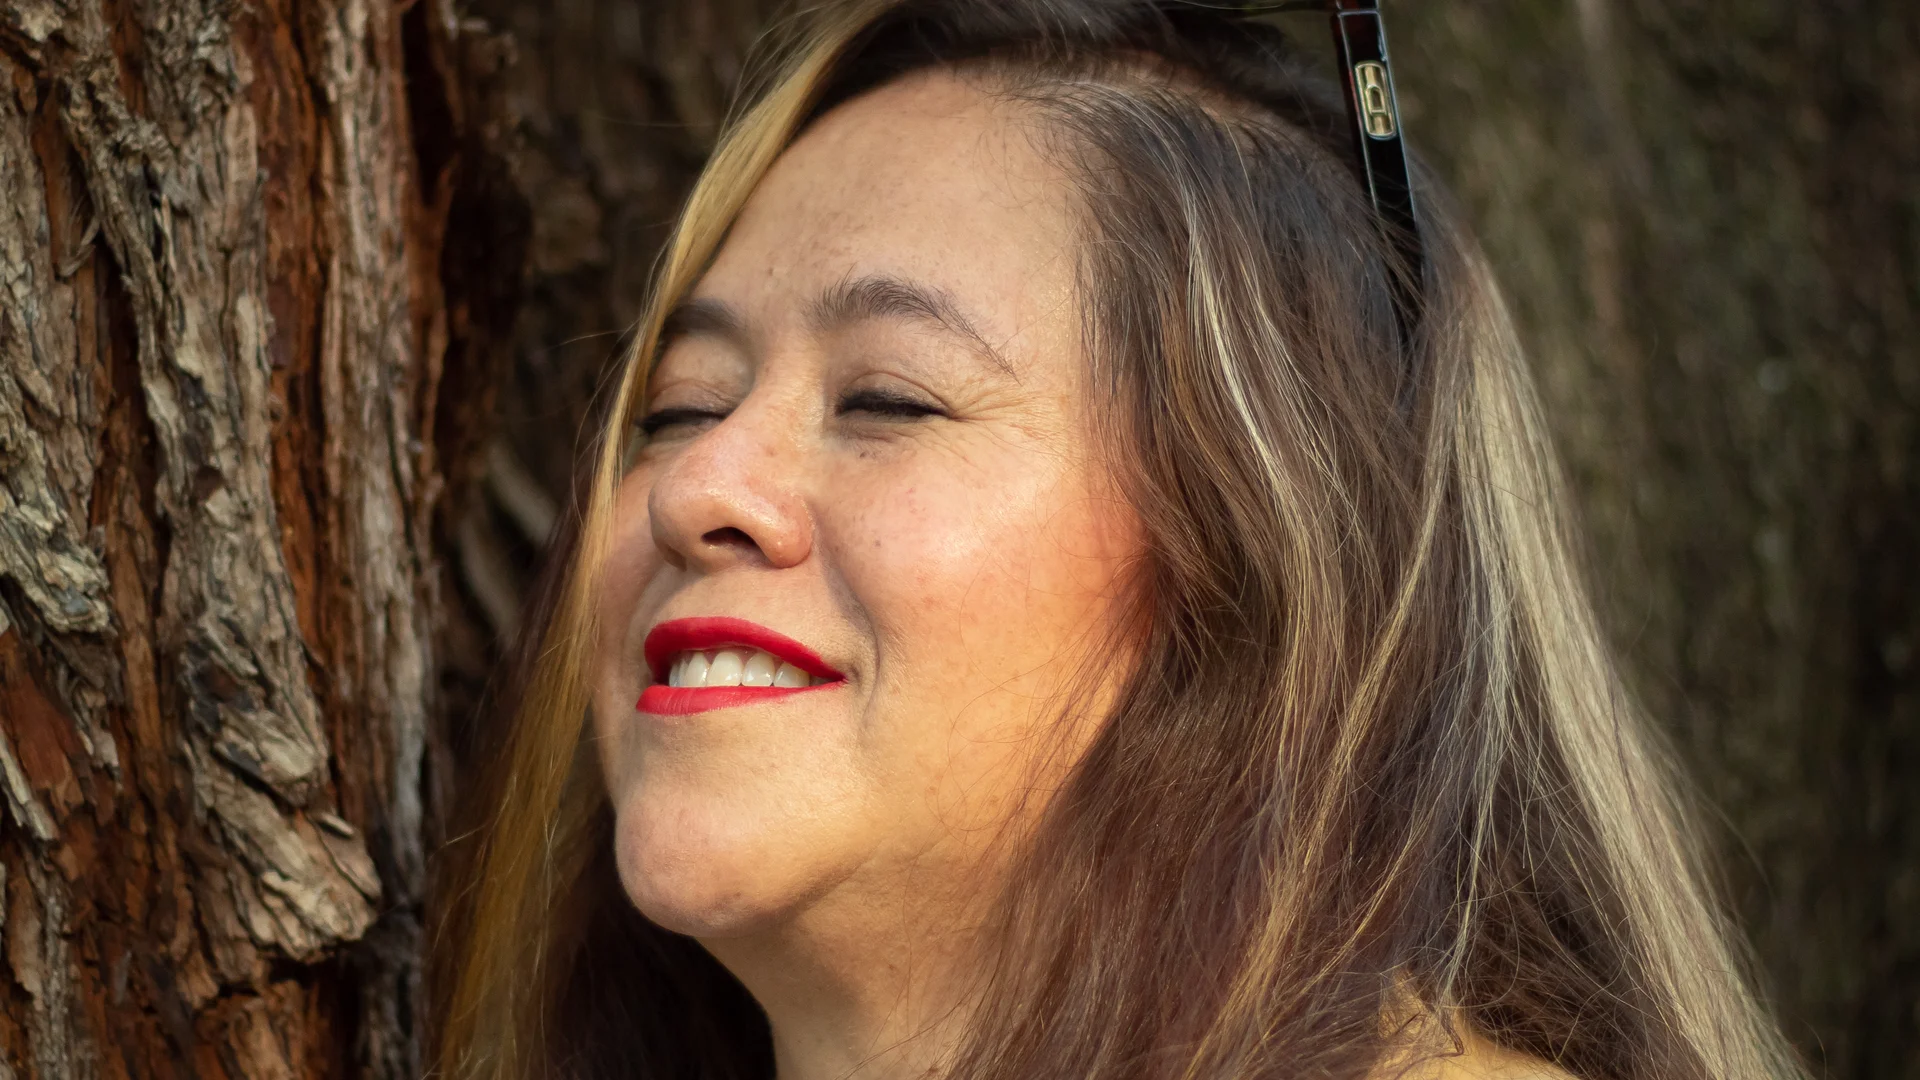
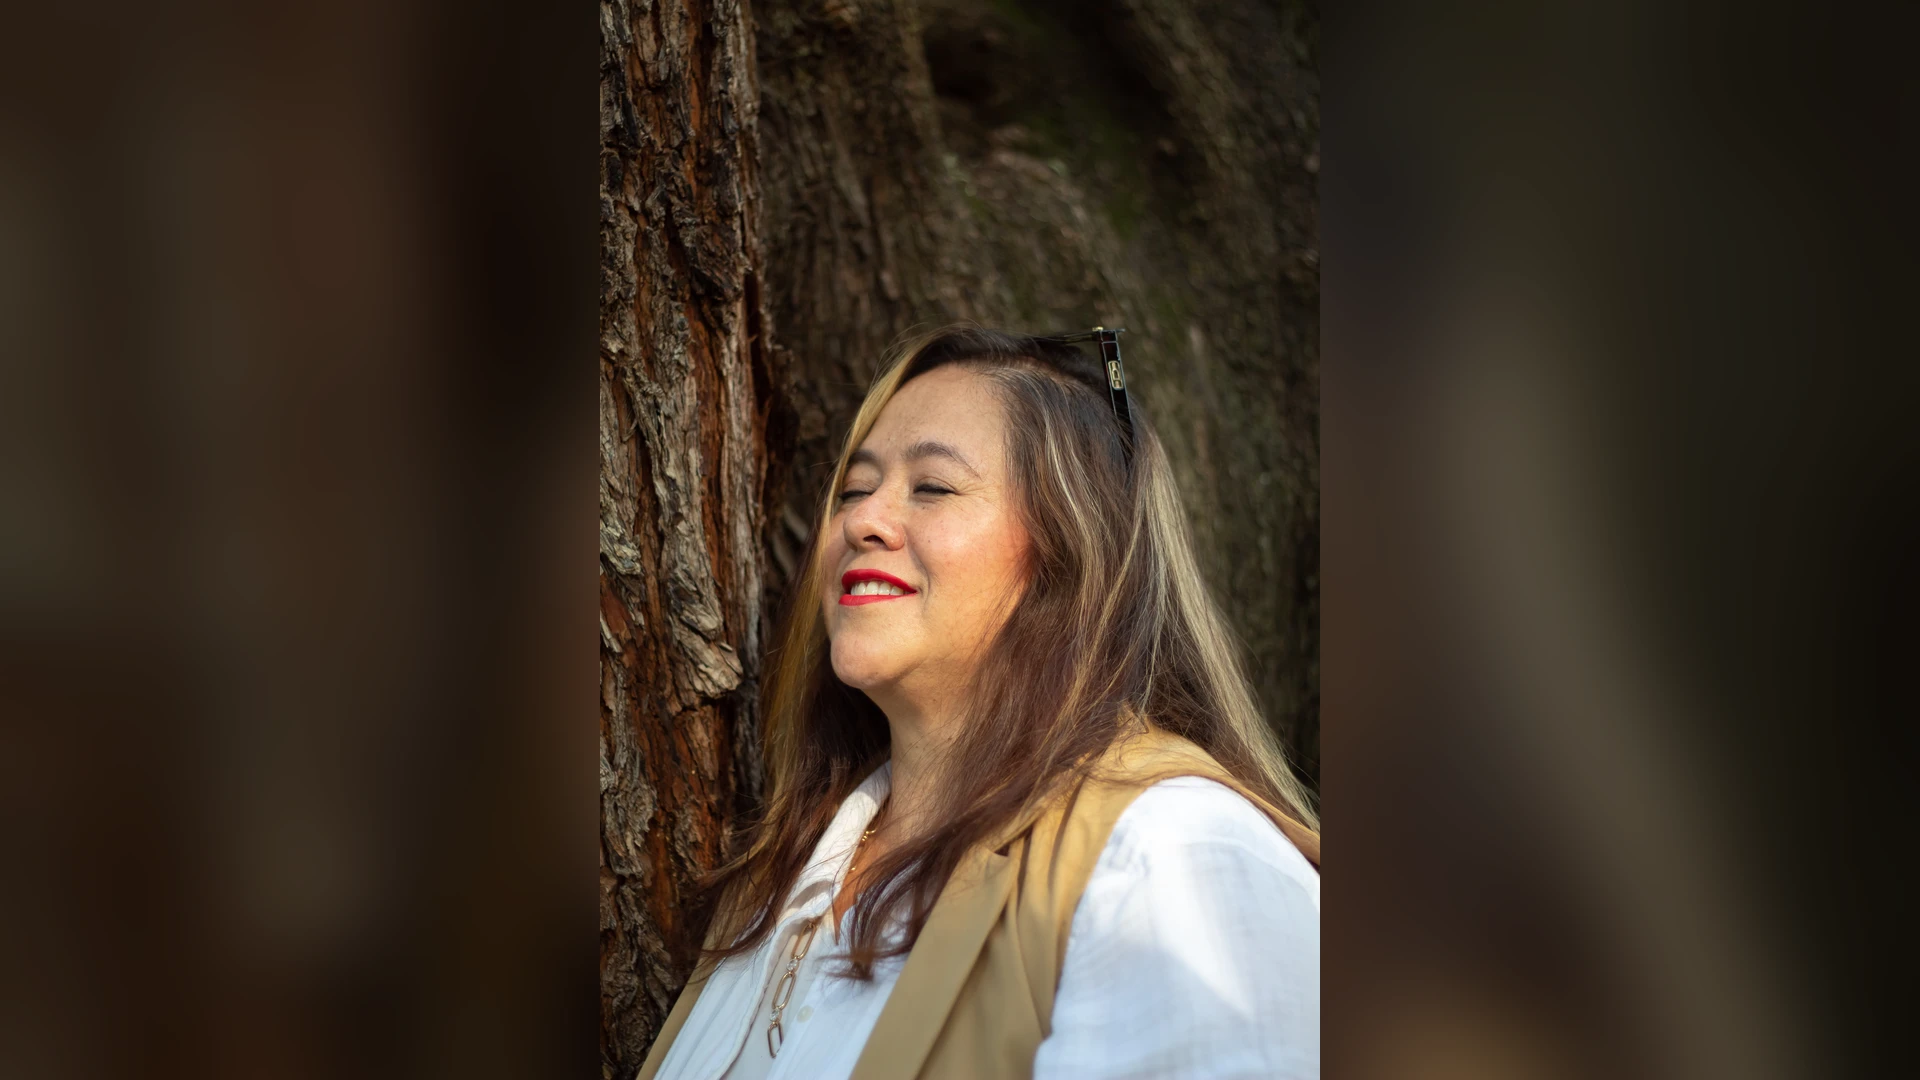
fix: cinematic letterbox-blur for carousels to handle vertical photos with premium aesthetics

diff --git a/scripts/process_carousels.py b/scripts/process_carousels.py
@@ -1,17 +1,22 @@
 import os
-from PIL import Image
+from PIL import Image, ImageFilter, ImageEnhance
 
-def process_images(src_dir, prefix, output_dir):
-    # Ensure output dir exists
+def process_images_cinematic(src_dir, prefix, output_dir):
+    """
+    Processes portrait images for a landscape space using a cinematic letterbox-blur effect.
+    The original image is centered, and a zoomed, blurred, and darkened version fills the background.
+    """
     if not os.path.exists(output_dir):
         os.makedirs(output_dir)
         
-    # Get sorted files
     if not os.path.exists(src_dir):
         print(f"Directory not found: {src_dir}")
         return
         
     files = sorted([f for f in os.listdir(src_dir) if f.lower().endswith(('.jpg', '.jpeg', '.png'))])
+    
+    # Target size: 16:9 (using 1920x1080 as standard)
+    target_w, target_h = 1920, 1080
     
     for i, filename in enumerate(files):
         src_path = os.path.join(src_dir, filename)
@@ -19,52 +24,73 @@ def process_images(src_dir, prefix, output_dir):
         output_path = os.path.join(output_dir, output_name)
         
         try:
-            print(f"Processing {filename} -> {output_name}")
+            print(f"Processing Cinematic: {filename} -> {output_name}")
             with Image.open(src_path) as img:
-                # Convert to RGB
-                if img.mode in ("RGBA", "P"):
-                    img = img.convert("RGB")
-                else:
-                    img = img.convert("RGB")
+                img = img.convert("RGB")
+                orig_w, orig_h = img.size
                 
-                width, height = img.size
+                # 1. Create the blurred background
+                # We want the background to be a zoomed version that fills the 1920x1080 area
+                # Calculate scale to fill width
+                bg_scale = target_w / orig_w
+                bg_w = target_w
+                bg_h = int(orig_h * bg_scale)
                 
-                # Target Aspect Ratio 16:9
-                target_ratio = 16 / 9
-                current_ratio = width / height
+                # If bg_h is still less than target_h, scale to height instead
+                if bg_h < target_h:
+                    bg_scale = target_h / orig_h
+                    bg_h = target_h
+                    bg_w = int(orig_w * bg_scale)
                 
-                if current_ratio > target_ratio:
-                    # Too wide -> crop width
-                    new_width = int(height * target_ratio)
-                    offset = (width - new_width) / 2
-                    img = img.crop((offset, 0, width - offset, height))
-                else:
-                    # Too tall (vertical 9:16) -> crop height
-                    new_height = int(width / target_ratio)
-                    offset = (height - new_height) / 2
-                    img = img.crop((0, offset, width, height - offset))
+                background = img.resize((bg_w, bg_h), Image.LANCZOS)
+                # Crop to target size from center
+                bg_left = (bg_w - target_w) / 2
+                bg_top = (bg_h - target_h) / 2
+                background = background.crop((bg_left, bg_top, bg_left + target_w, bg_top + target_h))
                 
-                # Resize to max-width 1920
-                if img.width > 1920:
-                    new_h = int(1920 / (img.width/img.height))
-                    img = img.resize((1920, new_h), Image.LANCZOS)
+                # Apply heavy blur
+                background = background.filter(ImageFilter.GaussianBlur(radius=50))
                 
-                img.save(output_path, 'webp', quality=85)
-                print(f"  Saved: {output_path} (Size: {img.size})")
+                # Darken the background slightly for focus
+                enhancer = ImageEnhance.Brightness(background)
+                background = enhancer.enhance(0.6)
+                
+                # 2. Prepare the foreground image (the vertical original)
+                # Scale foreground so it fits the height perfectly
+                fg_scale = target_h / orig_h
+                fg_h = target_h
+                fg_w = int(orig_w * fg_scale)
+                
+                # If the foreground is still too wide (not likely for portrait, but for safety), scale to width
+                if fg_w > target_w:
+                    fg_scale = target_w / orig_w
+                    fg_w = target_w
+                    fg_h = int(orig_h * fg_scale)
+                
+                foreground = img.resize((fg_w, fg_h), Image.LANCZOS)
+                
+                # 3. Combine
+                # Calculate paste position (centered)
+                paste_x = (target_w - fg_w) // 2
+                paste_y = (target_h - fg_h) // 2
+                
+                background.paste(foreground, (paste_x, paste_y))
+                
+                # Final save
+                background.save(output_path, 'webp', quality=90)
+                print(f"  Saved Cinematic: {output_path}")
+                
         except Exception as e:
             print(f"  Error processing {filename}: {e}")
 
 if __name__ == "__main__":
-    # Source paths (Verified lowercase 'fotos')
     BASE_SRC = "/Users/luisalbertosandovalramos/Downloads/fotos"
     BRAVE_SRC = os.path.join(BASE_SRC, "brave")
     VALIENTE_SRC = os.path.join(BASE_SRC, "valiente")
-    
-    # Destination
     DEST = "src/assets"
     
-    print("Processing BRAVE images...")
-    process_images(BRAVE_SRC, "brave", DEST)
+    print("🎬 Processing BRAVE images with Cinematic Effect...")
+    process_images_cinematic(BRAVE_SRC, "brave", DEST)
     
-    print("\nProcessing VALIENTE images...")
-    process_images(VALIENTE_SRC, "valiente", DEST)
+    print("\n🎬 Processing VALIENTE images with Cinematic Effect...")
+    process_images_cinematic(VALIENTE_SRC, "valiente", DEST)
